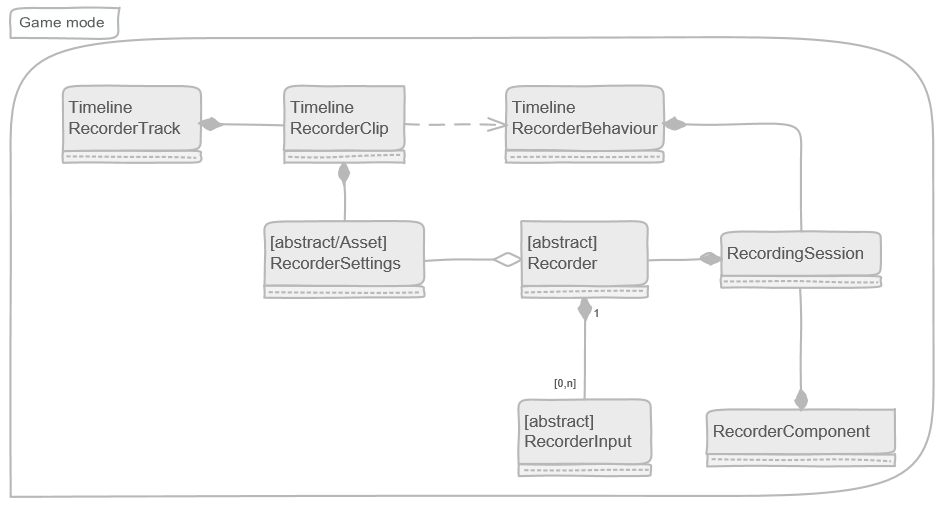
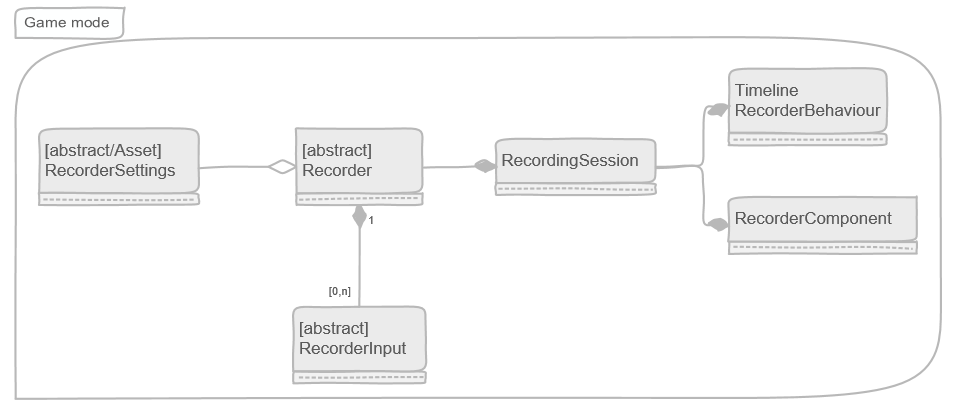
readme

diff --git a/README.md b/README.md
@@ -6,15 +6,13 @@ Extensibility is a prim concideration and since not all use cases can be thought
 
 Recorder types are detected at run time and made available to the recording framework dynamically.
 
-A key consideration is peoviding a uniform UX. By defining a standard pattern and basic classes, the framework can treat all recorders equally and display them consistently. This allows for a generic “recorder window” that is provided and takes care of configuring and starting a “recording session” from edit mode.
+A key consideration is providing a uniform UX. By defining a standard pattern and basic classes, the framework can treat all recorders equally and display them consistently. This allows for a generic “recorder window” that is provided and takes care of configuring and starting a “recording session” from edit mode.
 
 Code reusability and easy of use for developers is also a prime consideration. As much as possible, modularization in a Lego mentality is promoted so that work done for one specific recorder, say MP4 recording, can be reused by an other type of recorder, say PNG or WAV recorders.
 
 ### Current limitations
 * Recorders are Player standalone friendly, but not the editors.
 * Framerate is set at the Recorder level which makes for potential conflict when multiple recorders are active simultaneously.
-
-
 
 ## Triggering a Recording
 
@@ -23,6 +21,7 @@ Code reusability and easy of use for developers is also a prime consideration. A
 1. Select a type of recording and open the recorder window
 
 ![](docs/images/recorder-menu.png)
+
 2. Edit the recorders settings
 
 ![](docs/images/RecorderWindow.png)
@@ -37,21 +36,23 @@ Note that this can be done  from edit mode and from game mode...
 3. Add a "Frame Recorder clip" to the track.
 4. Select the newly added slip
 ![](docs/images/TimelineTrack.png)
+
 5. Edit the clip's settings
 ![](docs/images/RecorderClip.png)
+
 6. Enter play mode and trigger the timeline through behaviours...
 
 ## Design
 
-### Conceptual blocks breakdown
+### Conceptual breakdown
 The Recording framework is composed of three conceptual groups:
 
 ![](docs/images/ConceptualBlocks.PNG)
 * **Recorders**: the part that takes data feeds (Inputs) and transform them into whatever format they want (Image input -> mp4 file). They do NOT deal with gathering the data from Unity: that is the Inputs task. Every recorder is broken down into three pieces: Recorder, Settings and Settings Editor.
-* **Inputs**: specialized classes that know how to gather a given type of data from unity and how to pre-package that data in a way that is ready from consumption by the Recorders. Like recorders, Inputs are borken down into three parts: Input, Setttings and Settings Editor.
+* **Inputs**: specialized classes that know how to gather a given type of data from unity and how to pre-package that data in a way that is ready for consumption by the Recorders. Like recorders, Inputs are borken down into three parts: Input, Setttings and Settings Editor.
 * **Support**: holds the FrameRecorder's logic, UI, timeline integration and services.
 
-### Recorders and there Inputs
+### Recorders and their Inputs
 Here are the classes that make up recorders and their inputs.
 
 ![](docs/images/Recorders_and_inputs.PNG)
@@ -96,6 +97,17 @@ Here are the classes that make up recorders and their inputs.
 
 ### Game mode classes
 ![](docs/images/GameModeClasses.PNG)
+
+#### RecordingSession
+* This is a helper class that is used to hold and carry around the contextual state of a recording session.
+* Is the time reference used by the recorders: Recorders should, as a general rule, never access the unity Time class.
+* Is responsible for informing the recorder of events (begin recording, new frame, etc.)
+* Contains:
+  * Owns the recorder instance
+  * Reference to the GameoObject that hosts the recorder
+  * Current frame count (rendered, not recorded)
+  * Current frame’s start time stamp relative to the start of the recording session.
+  * Timestamp of when the recording session started.
 
 ### Timeline integration
 ![](docs/images/TimelineClasses.PNG)
